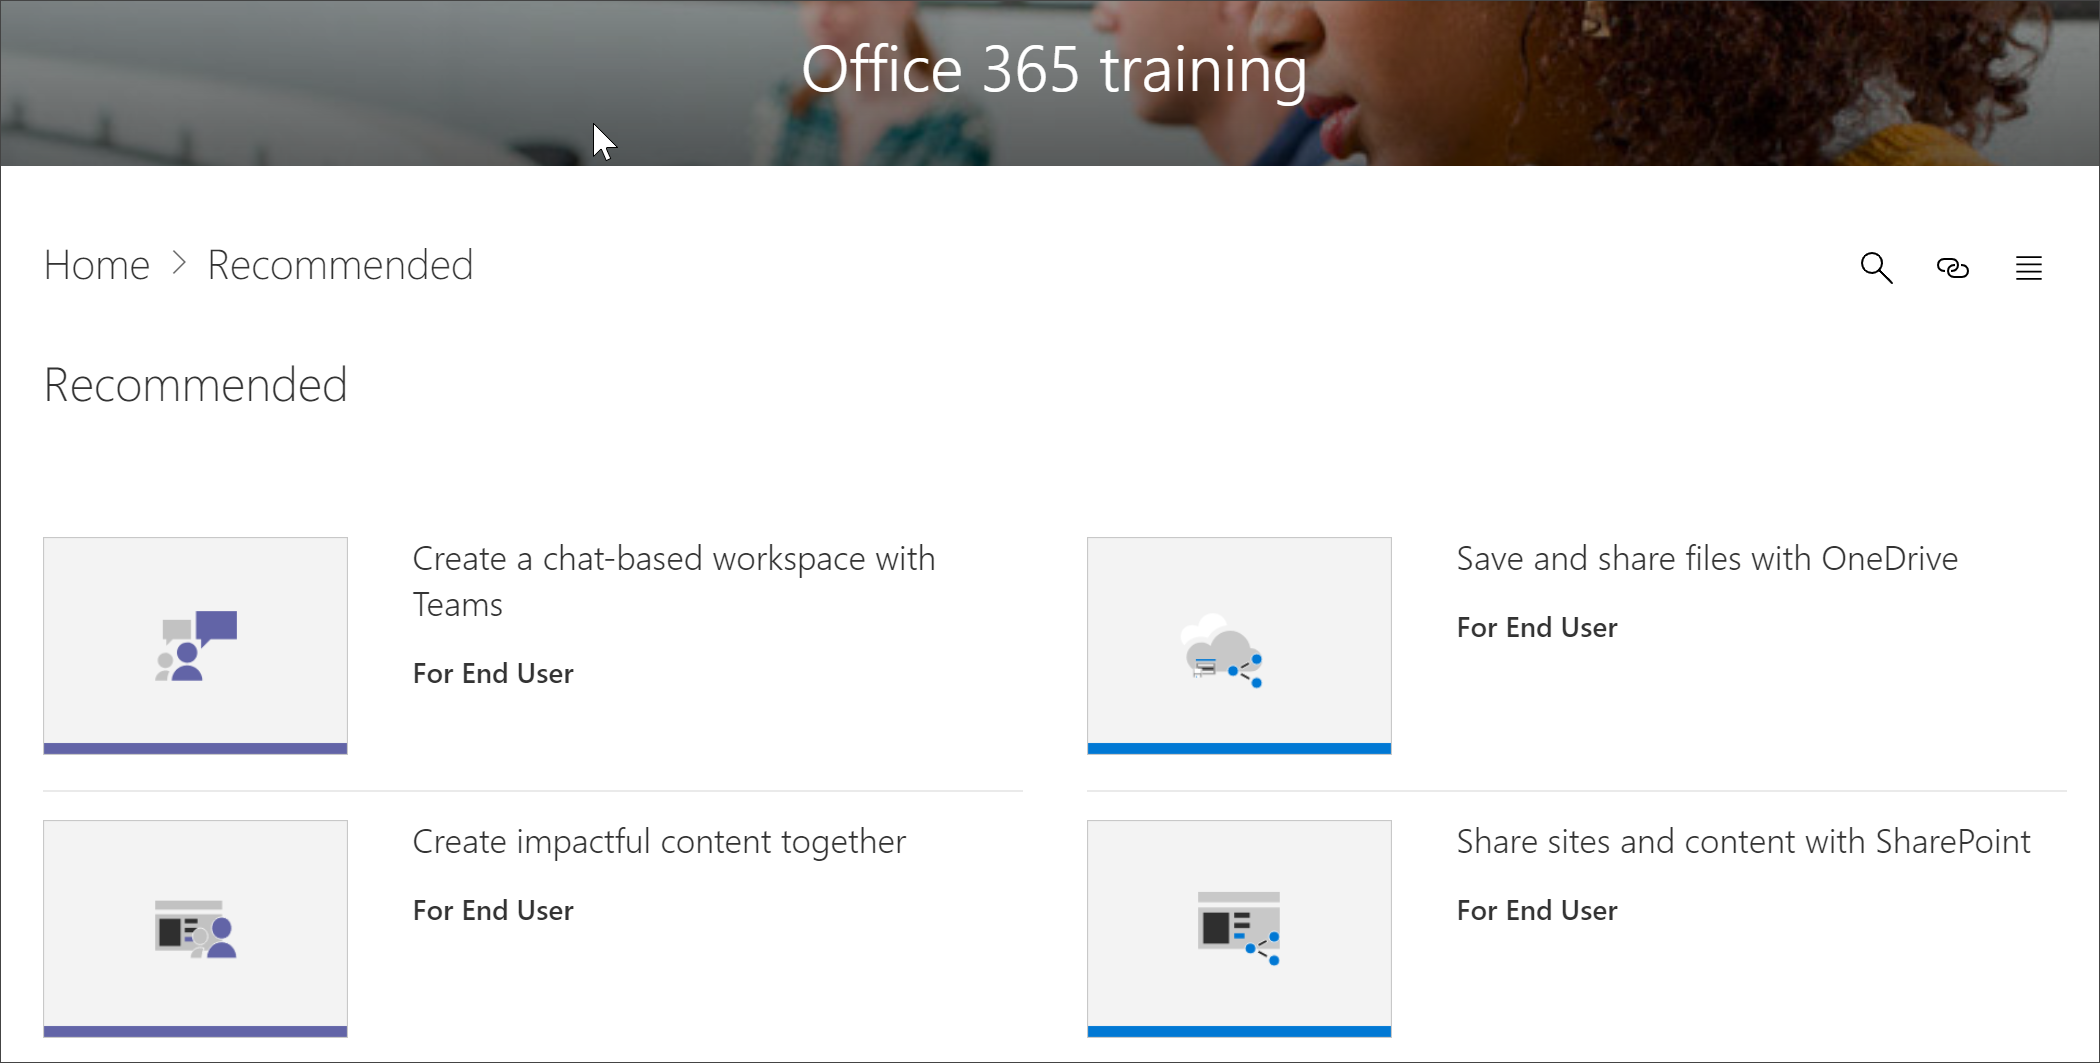
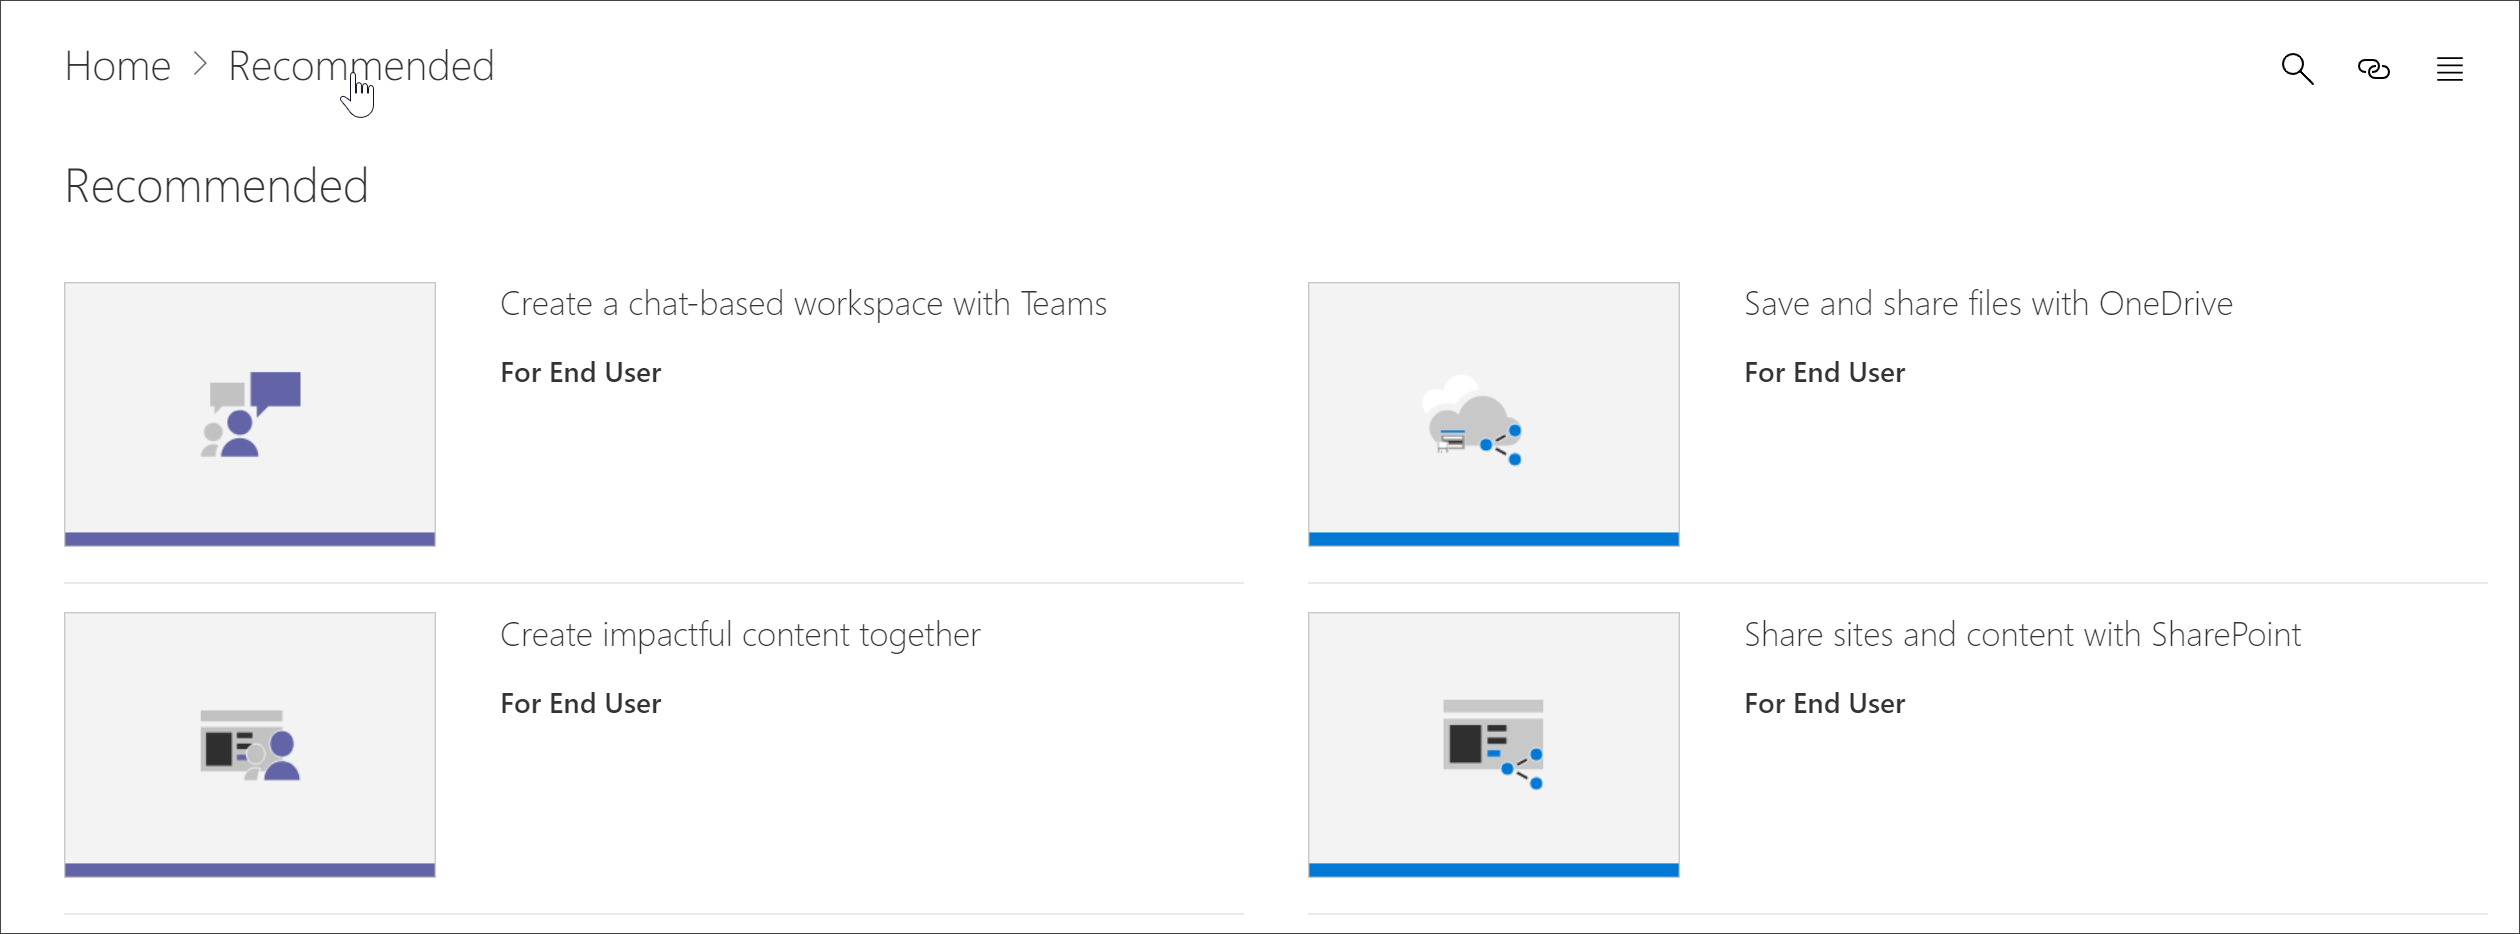
365 rebrand

diff --git a/CustomLearning/custom_hideshowtech.md b/CustomLearning/custom_hideshowtech.md
@@ -12,8 +12,8 @@ In some cases, you’ll want to hide content for a technology that’s not suppo
 
 ## Hide a Technology
 
-1. From the Custom Learning **Home** page, click the **Office 365 training** tile.
-2. From the Custom Learning Web part, select the **System** menu, then select **Administer Playlist**. You should now have two tabs open. One with the **Custom Learning Administration** page, and one with the **Office 365 training** page. 
+1. From the Microsoft 365 learning pathways **Home** page, click the **Microsoft 365 training** tile.
+2. From the Custom Learning Web part, select the **System** menu, then select **Administer Playlist**. You should now have two tabs open. One with the **Custom Learning Administration** page, and one with the **Microsoft 365 training** page. 
 3. From the **Custom Learning Administration** page, click a **Technology**, and then select the eyeball for the Technology to hide it. For this example, click the **Yammer** technology, and then hide it.  
 
 ![cg-hidetech.png](media/cg-hidetech.png)
